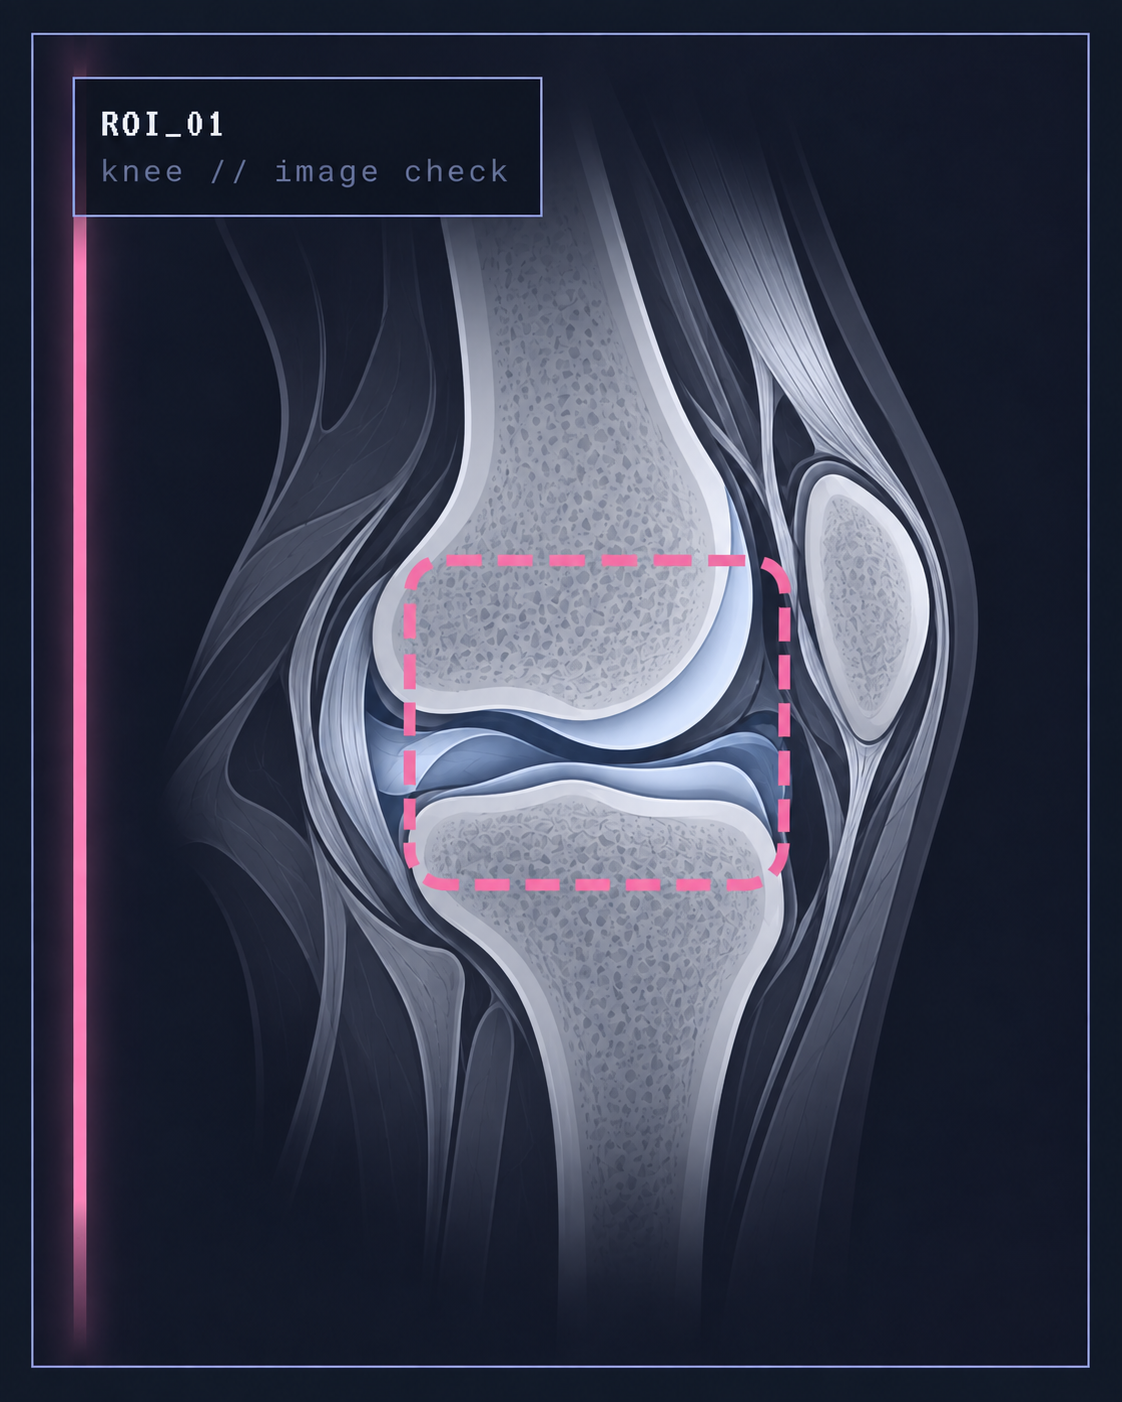
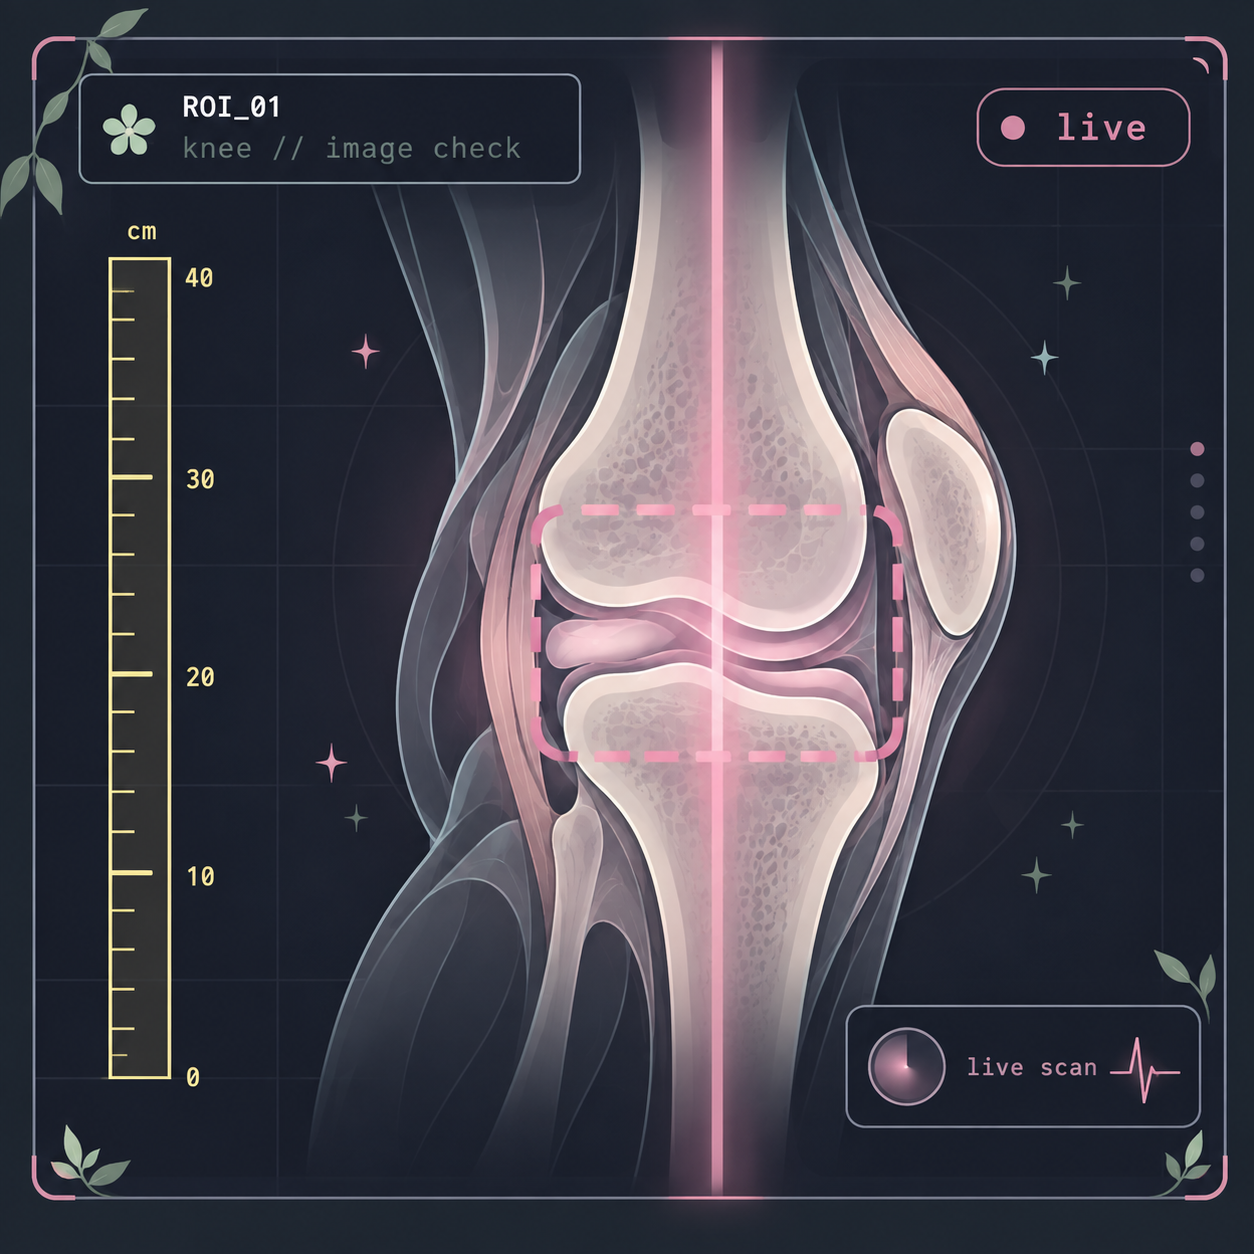
Add files via upload

diff --git a/style.css b/style.css
@@ -1344,3 +1344,14 @@ html.dark .mriViewport.artMode.liveScan{background:#0f1524!important}
   .liveScanLine{left:50%;opacity:.7}
   .liveScanBand{left:38%;opacity:.25}
 }
+
+
+/* v19: themed illustrated knee scan panel */
+.mriPanel.liveKneePanel{background:#111827!important;border:1px solid #7e8fc2!important;box-shadow:4px 4px 0 rgba(123,143,204,.18)!important}
+.mriViewport.artMode.liveScan.themedKneeScan{position:absolute!important;inset:0!important;background:#111827!important;overflow:hidden!important}
+.mriViewport.artMode.liveScan.themedKneeScan .mriArt{position:absolute!important;inset:0!important;width:100%!important;height:100%!important;object-fit:cover!important;object-position:center center!important;transform:none!important;filter:none!important;border:0!important;margin:0!important;padding:0!important;display:block!important}
+.mriViewport.artMode.liveScan.themedKneeScan .liveScanBand{top:0!important;bottom:0!important;left:-22%!important;width:18%!important;background:linear-gradient(90deg,transparent,rgba(255,167,204,.04),rgba(255,167,204,.24),rgba(255,167,204,.04),transparent)!important;filter:blur(.5px)!important;mix-blend-mode:screen;animation:kneeScanBandV19 4.8s ease-in-out infinite!important;z-index:3!important}
+@keyframes kneeScanBandV19{0%,10%{left:-22%;opacity:0}15%{opacity:1}48%{left:104%;opacity:1}54%{opacity:0}60%{left:104%;opacity:0}92%{left:-22%;opacity:.9}100%{left:-22%;opacity:0}}
+html.dark .mriPanel.liveKneePanel,html.dark .mriViewport.artMode.liveScan.themedKneeScan{background:#111827!important}
+@media(max-width:850px){.mriViewport.artMode.liveScan.themedKneeScan .mriArt{object-fit:cover!important;object-position:center center!important}}
+@media(prefers-reduced-motion:reduce){.mriViewport.artMode.liveScan.themedKneeScan .liveScanBand{animation:none!important;left:42%!important;opacity:.18!important}}

diff --git a/index.html b/index.html
@@ -77,12 +77,10 @@
       <span>MOTION // joint tracking</span>
     </section>
 
-    <section class="mriPanel liveKneePanel" aria-label="Live medical-illustration knee imaging preview">
-      <div class="mriViewport artMode liveScan" aria-label="Animated live knee scan">
-        <img class="mriArt" src="knee_medical_illustration.png" alt="Medical illustration style knee scan interface" loading="lazy"/>
+    <section class="mriPanel liveKneePanel" aria-label="Live stylized knee scan preview">
+      <div class="mriViewport artMode liveScan themedKneeScan" aria-label="Animated stylized knee scan">
+        <img class="mriArt" src="knee_medical_illustration.png" alt="Retro biomedical knee scan illustration matching the website theme" loading="lazy"/>
         <div class="liveScanBand" aria-hidden="true"></div>
-        <div class="liveScanLine" aria-hidden="true"></div>
-        <div class="scanStatus" aria-hidden="true"><span></span>live scan</div>
       </div>
     </section>
   </div>
